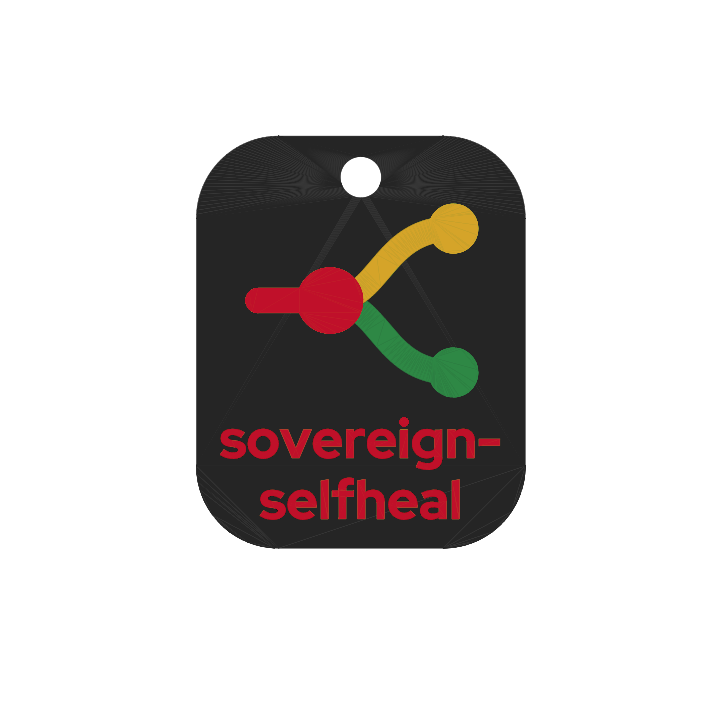
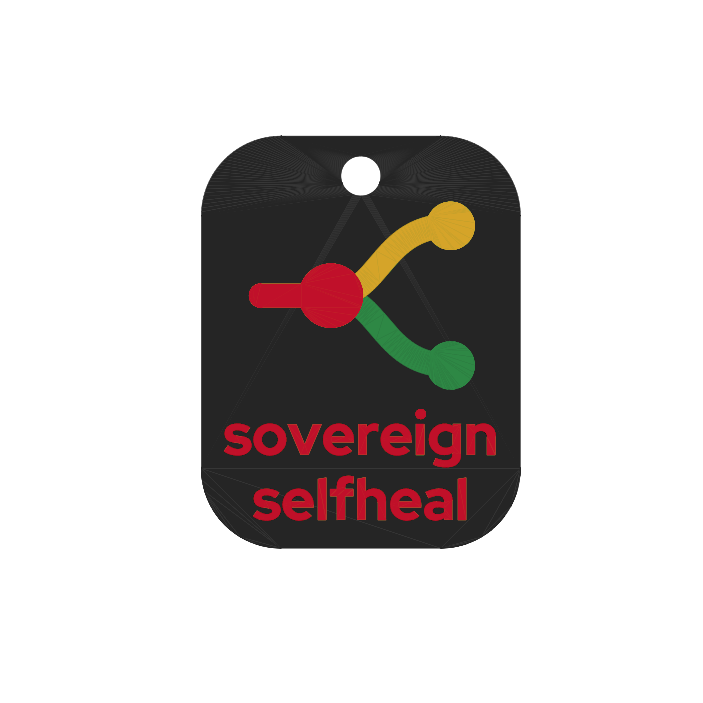
Keychain name without the hyphen; thicker small parts of the text
On the first printed keychain with the name, the hyphen at the end of
"sovereign-" did not print: Red Hat Display Bold draws it 0.116 font sizes
thick, which was 0.77 mm, under two extrusions.

- The name is now "sovereign" and "selfheal" on two lines, without the
  hyphen. The longest line is still 34 mm wide, so the font is larger
  (7.3 mm) and the keychain is 40 x 51.7 mm.
- Small separate parts of every text (a hyphen, a full stop, the dot of an
  i) now grow to at least MIN_ISLAND, three extrusions (1.2 mm), only in
  the directions where they are too thin. On the plaque this changes only
  the hyphen of the address, from 0.97 to 1.2 mm; the dots were thick
  enough already. A test checks every small part of the texts.

Claude-Session: https://claude.ai/code/session_013dDpBWY4eRx4P2pPVtHPJk

diff --git a/src/logo_3d/parts.py b/src/logo_3d/parts.py
@@ -33,6 +33,7 @@ from build123d import (
     TextAlign,
     chamfer,
     extrude,
+    scale,
 )
 
 from logo_3d.mark import mark_outline, mark_sketches
@@ -44,6 +45,7 @@ from logo_3d.params import (
     MARK_DOT_RADIUS,
     MARK_LOCAL,
     MARK_UNITS,
+    MIN_ISLAND,
     QR_OVERLAP,
     Params,
 )
@@ -79,9 +81,30 @@ def address_font_size(p: Params = DEFAULT) -> float:
     return _PROBE_SIZE * p.address_width / _text_width(p.address)
 
 
+def _thicken_islands(sketch: Sketch, size: float) -> Sketch:
+    """Make the small separate parts of a text at least ``MIN_ISLAND`` thick.
+
+    A part is small when it is shorter than half the font size: a hyphen, a full
+    stop, the dot of an i. Each one grows about its centre, only in the
+    directions where it is too thin, so a hyphen keeps its length and a dot
+    stays round. Letters are larger and do not change.
+    """
+    faces, changed = [], False
+    for face in sketch.faces():
+        box = face.bounding_box()
+        if max(box.size.X, box.size.Y) < size / 2:
+            factors = (max(1.0, MIN_ISLAND / box.size.X), max(1.0, MIN_ISLAND / box.size.Y), 1.0)
+            if factors != (1.0, 1.0, 1.0):
+                centre = box.center()
+                face = Pos(centre) * scale(Pos(-centre) * face, by=factors)
+                changed = True
+        faces.append(face)
+    return Sketch() + faces if changed else sketch
+
+
 def text_sketch(text: str, size: float, centre_x: float, bottom: float) -> Sketch:
     """``text`` in Red Hat Display Bold, centred on ``centre_x``, lowest point at ``bottom``."""
-    sketch = Text(text, size, font_path=str(FONT))
+    sketch = _thicken_islands(Text(text, size, font_path=str(FONT)), size)
     box = sketch.bounding_box()
     return Pos(centre_x - box.center().X, bottom - box.min.Y, 0) * sketch
 
@@ -129,6 +152,7 @@ def name_lines(p: Params = DEFAULT) -> list[Sketch]:
         text = Text(
             line, size, font_path=str(FONT), text_align=(TextAlign.CENTER, TextAlign.BOTTOM)
         )
+        text = _thicken_islands(text, size)
         if baseline is None:
             baseline = mark_bottom - p.name_gap - text.bounding_box().max.Y
         else:

diff --git a/tests/test_parts.py b/tests/test_parts.py
@@ -20,6 +20,7 @@ from logo_3d.params import (
     MARK_LOCAL,
     MARK_NODE,
     MARK_STROKE,
+    MIN_ISLAND,
 )
 
 p = DEFAULT
@@ -204,6 +205,25 @@ def test_ring_hole_goes_through_and_clears_the_mark(name, all_parts):
     mark = _union(mark_sketches(p.keychain_scale))
     grown = Pos(x, y, 0) * Circle(p.ring_hole_dia / 2 + 2 * EXTRUSION_WIDTH)
     assert (mark & grown).area < 1e-6
+
+
+def _small_parts(sketch: Sketch, size: float) -> list:
+    """Bounding boxes of the separate parts shorter than half the font size."""
+    boxes = [face.bounding_box() for face in sketch.faces()]
+    return [box for box in boxes if max(box.size.X, box.size.Y) < size / 2]
+
+
+def test_small_parts_of_every_text_are_thick_enough():
+    address_size = parts.address_font_size(p)
+    texts = [(_address(), address_size)]
+    texts += [(line, parts.name_font_size(p)) for line in parts.name_lines(p)]
+    for sketch, size in texts:
+        for box in _small_parts(sketch, size):
+            assert min(box.size.X, box.size.Y) >= MIN_ISLAND - 1e-6, box.size
+    # The hyphen of the address keeps its length and only gets thicker.
+    hyphens = [b for b in _small_parts(_address(), address_size) if b.size.X > 2 * b.size.Y]
+    assert len(hyphens) == p.address.count("-")
+    assert hyphens[0].size.Y == pytest.approx(MIN_ISLAND)
 
 
 def test_name_is_printable_and_stays_clear(keychain_name, keychain):

diff --git a/src/logo_3d/params.py b/src/logo_3d/params.py
@@ -21,6 +21,11 @@ from typing import NamedTuple
 #: more, so the slicer can draw them with real perimeters.
 EXTRUSION_WIDTH = 0.4
 
+#: Small separate parts of a text, such as a hyphen or the dot of an i, are made
+#: at least this thick. On the first printed keychain the hyphen of Red Hat
+#: Display Bold was 0.77 mm thick, and it did not print.
+MIN_ISLAND = 3 * EXTRUSION_WIDTH
+
 #: Density of PETG, for the filament estimate (Prusament PETG data sheet).
 PETG_DENSITY = 1.27
 
@@ -144,8 +149,9 @@ class Params:
     # As wide as the keychain and with the same mark and hole, but longer: the
     # name of the project goes under the mark, in the color of the gateway.
     #: The name; "|" starts a new line. On one line, 40 mm wide, its strokes
-    #: would be too thin to print.
-    name_text: str = "sovereign-|selfheal"
+    #: would be too thin to print. No hyphen at the end of the first line: at
+    #: this size it was too thin and did not print.
+    name_text: str = "sovereign|selfheal"
     #: Width of the longest line; the font size follows from it.
     name_width: float = 34.0
     #: Distance between two baselines, in units of the font size: the tail of

diff --git a/AGENTS.md b/AGENTS.md
@@ -26,7 +26,8 @@ and no other repo depends on it.
 2. **No support material.** Every part prints flat, with vertical walls. The only slanted walls are
    the ones of the slot of the stand, at `slot_lean` degrees from the vertical (keep it under 45).
 3. **Printable sizes.** The strokes of the mark stay at four extrusions (0.4 mm) or more, the strokes
-   of the text at two or more. `Params.validate()` refuses combinations that give a part you cannot
+   of the text at two or more. Small separate parts of a text (a hyphen, a dot) grow to `MIN_ISLAND`
+   (three extrusions): at 0.77 mm the hyphen of the first keychain did not print. `Params.validate()` refuses combinations that give a part you cannot
    use; add a check there when you find a new one.
 4. **Every dimension in `params.py`.** The model code has no millimetre values. Each field of
    `Params` is also an option of the exporter.

diff --git a/README.md b/README.md
@@ -155,7 +155,7 @@ The parameters worth knowing:
 | `address` | `sovereign-selfheal.github.io` | text under the mark |
 | `address_width` | 112.0 | width of the text; the font size follows from it |
 | `keychain_size` | 40.0 | side of a keychain |
-| `name_text` | `sovereign-\|selfheal` | name on the keychain; `\|` starts a new line |
+| `name_text` | `sovereign\|selfheal` | name on the keychain; `\|` starts a new line |
 | `ring_hole_dia` | 5.0 | hole for the key ring |
 | `slot_lean` | 15.0 | angle of the plaque in the stand, from the vertical |
 | `slot_clearance` | 0.6 | gap between the plaque and the slot |
